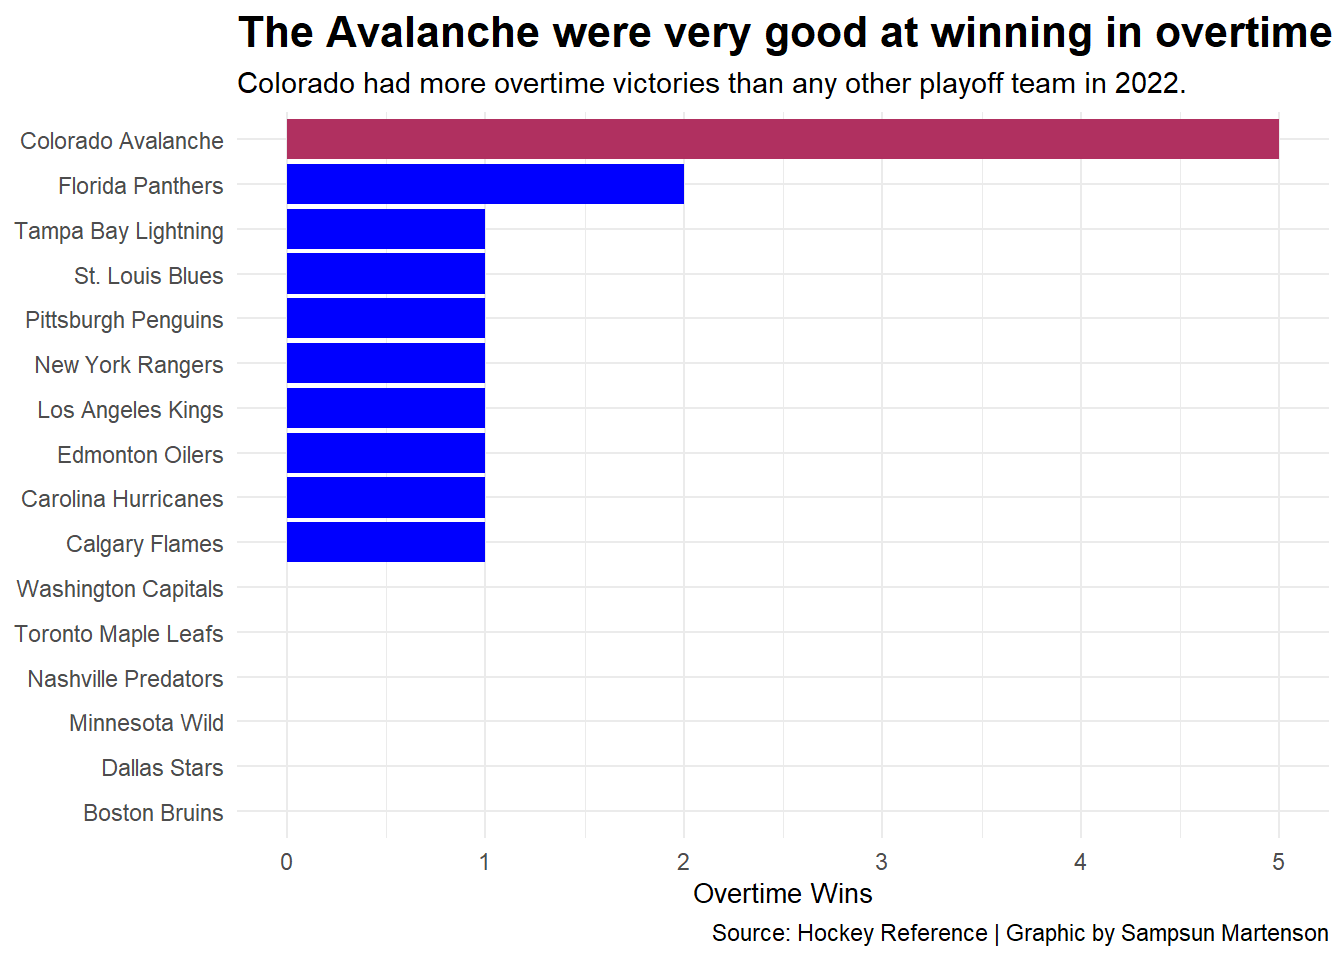
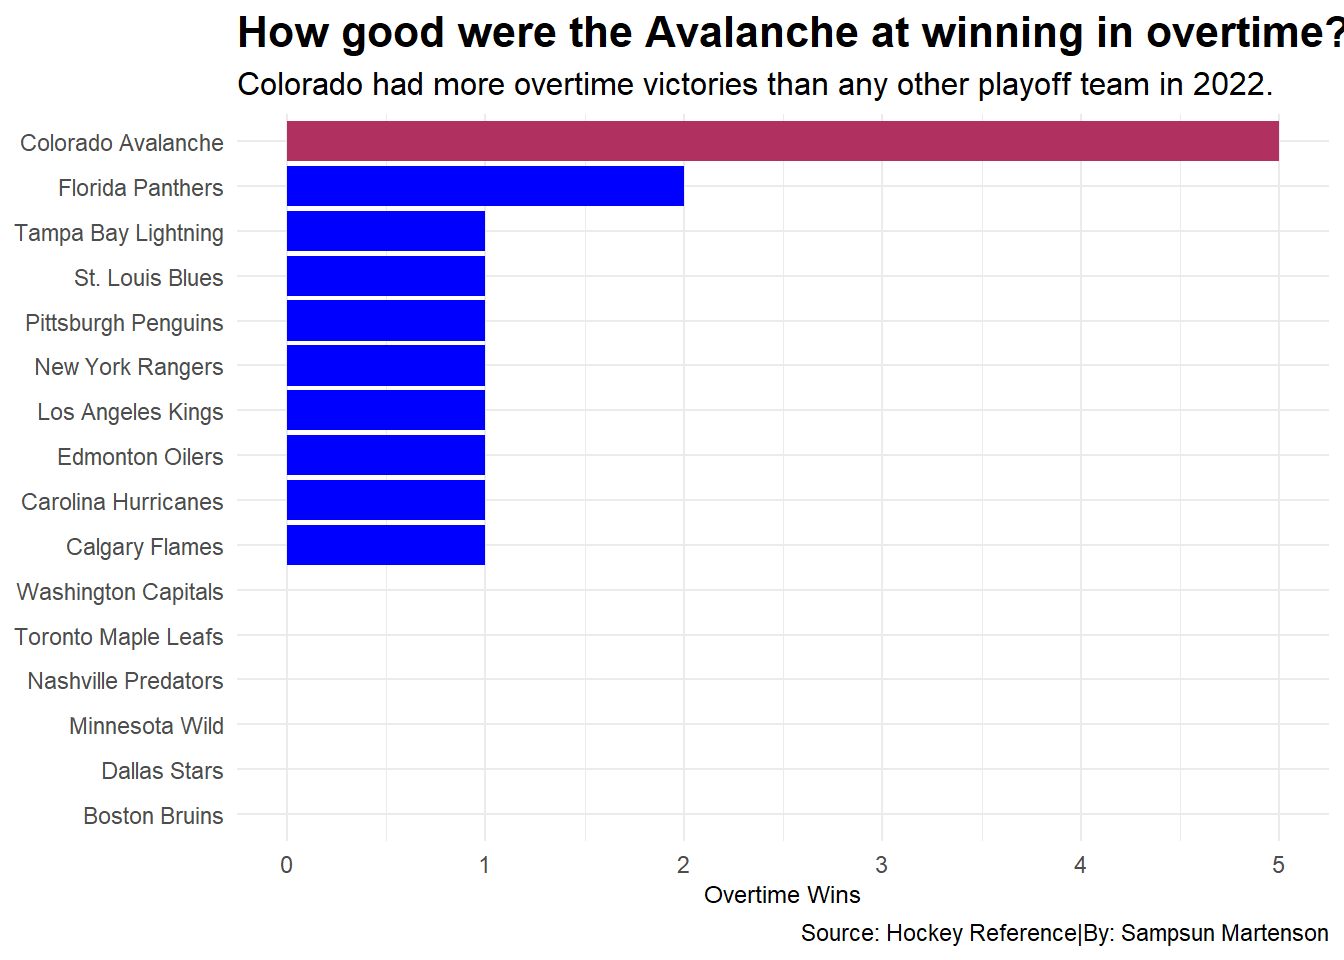
final edits

diff --git a/posts/avalanche-dominance/index.html b/posts/avalanche-dominance/index.html
@@ -244,16 +244,18 @@ code span.wa { color: #60a0b0; font-weight: bold; font-style: italic; } /* Warni
 <span id="cb1-23"><a href="#cb1-23" aria-hidden="true" tabindex="-1"></a>  <span class="fu">theme_minimal</span>() <span class="sc">+</span> </span>
 <span id="cb1-24"><a href="#cb1-24" aria-hidden="true" tabindex="-1"></a>  <span class="fu">coord_flip</span>() <span class="sc">+</span></span>
 <span id="cb1-25"><a href="#cb1-25" aria-hidden="true" tabindex="-1"></a>  <span class="fu">labs</span>(</span>
-<span id="cb1-26"><a href="#cb1-26" aria-hidden="true" tabindex="-1"></a>    <span class="at">x =</span> <span class="st">"Overtime Wins"</span>,</span>
+<span id="cb1-26"><a href="#cb1-26" aria-hidden="true" tabindex="-1"></a>    <span class="at">x =</span> <span class="st">"Team"</span>,</span>
 <span id="cb1-27"><a href="#cb1-27" aria-hidden="true" tabindex="-1"></a>    <span class="at">y =</span> <span class="st">"Overtime Wins"</span>,</span>
-<span id="cb1-28"><a href="#cb1-28" aria-hidden="true" tabindex="-1"></a>    <span class="at">title=</span><span class="st">"The Avalanche were very good at winning in overtime"</span>, </span>
+<span id="cb1-28"><a href="#cb1-28" aria-hidden="true" tabindex="-1"></a>    <span class="at">title=</span><span class="st">"How good were the Avalanche at winning in overtime?"</span>, </span>
 <span id="cb1-29"><a href="#cb1-29" aria-hidden="true" tabindex="-1"></a>    <span class="at">subtitle=</span><span class="st">"Colorado had more overtime victories than any other playoff team in 2022."</span>,</span>
-<span id="cb1-30"><a href="#cb1-30" aria-hidden="true" tabindex="-1"></a>    <span class="at">caption=</span><span class="st">"Source: Hockey Reference | Graphic by Sampsun Martenson"</span>) <span class="sc">+</span> </span>
+<span id="cb1-30"><a href="#cb1-30" aria-hidden="true" tabindex="-1"></a>    <span class="at">caption=</span><span class="st">"Source: Hockey Reference|By: Sampsun Martenson"</span>) <span class="sc">+</span> </span>
 <span id="cb1-31"><a href="#cb1-31" aria-hidden="true" tabindex="-1"></a>  <span class="fu">theme</span>(</span>
-<span id="cb1-32"><a href="#cb1-32" aria-hidden="true" tabindex="-1"></a>    <span class="at">plot.title =</span> <span class="fu">element_text</span>(<span class="at">size =</span> <span class="dv">16</span>, <span class="at">face =</span> <span class="st">"bold"</span>),</span>
-<span id="cb1-33"><a href="#cb1-33" aria-hidden="true" tabindex="-1"></a>    <span class="at">axis.title =</span> <span class="fu">element_text</span>(<span class="at">size =</span> <span class="dv">10</span>),</span>
-<span id="cb1-34"><a href="#cb1-34" aria-hidden="true" tabindex="-1"></a>    <span class="at">axis.title.y =</span> <span class="fu">element_blank</span>()</span>
-<span id="cb1-35"><a href="#cb1-35" aria-hidden="true" tabindex="-1"></a>  )</span></code><button title="Copy to Clipboard" class="code-copy-button"><i class="bi"></i></button></pre></div>
+<span id="cb1-32"><a href="#cb1-32" aria-hidden="true" tabindex="-1"></a>    <span class="at">plot.title =</span> <span class="fu">element_text</span>(<span class="at">size =</span> <span class="dv">16</span>, <span class="at">face=</span> <span class="st">"bold"</span>),</span>
+<span id="cb1-33"><a href="#cb1-33" aria-hidden="true" tabindex="-1"></a>    <span class="at">axis.title =</span> <span class="fu">element_text</span>(<span class="at">size=</span><span class="dv">9</span>),</span>
+<span id="cb1-34"><a href="#cb1-34" aria-hidden="true" tabindex="-1"></a>    <span class="at">plot.subtitle =</span> <span class="fu">element_text</span>(<span class="at">size=</span><span class="dv">12</span>),</span>
+<span id="cb1-35"><a href="#cb1-35" aria-hidden="true" tabindex="-1"></a>    <span class="at">axis.text.x =</span> <span class="fu">element_text</span>(<span class="at">size=</span><span class="dv">9</span>),</span>
+<span id="cb1-36"><a href="#cb1-36" aria-hidden="true" tabindex="-1"></a>    <span class="at">axis.title.y =</span> <span class="fu">element_blank</span>()</span>
+<span id="cb1-37"><a href="#cb1-37" aria-hidden="true" tabindex="-1"></a>  )</span></code><button title="Copy to Clipboard" class="code-copy-button"><i class="bi"></i></button></pre></div>
 </details>
 <div class="cell-output-display">
 <p><img src="index_files/figure-html/unnamed-chunk-1-1.png" class="img-fluid" width="672"></p>
@@ -263,8 +265,9 @@ code span.wa { color: #60a0b0; font-weight: bold; font-style: italic; } /* Warni
 <div class="sourceCode cell-code" id="cb2"><pre class="sourceCode r code-with-copy"><code class="sourceCode r"><span id="cb2-1"><a href="#cb2-1" aria-hidden="true" tabindex="-1"></a><span class="fu">ggsave</span>(<span class="st">"image.png"</span>)</span></code><button title="Copy to Clipboard" class="code-copy-button"><i class="bi"></i></button></pre></div>
 </details>
 </div>
-<p>This stat is a great place to start to show just how shut down and resiliant this Avalanche team was. They went into overtime a total of six times and won all but one of them over the course of their playoff run. This also included two overtime victories in the finals.</p>
-<p>The next stat we can look to is point differential to show just how ridiculous this Avalanche team was when scoring goals compared to other playoff teams.</p>
+<p>This stat is a great place to start to show just how shut down and resilient this Avalanche team was. They went into overtime a total of six times and won all but one of them over the course of their playoff run. This also included two overtime victories in the finals.</p>
+<p>The next stat we can look to is point differential to show just how ridiculous this Avalanche team was when scoring goals compared to other playoff teams. They were able to explode offensively frequently which helped them when their defense was still getting their footing in certain series.</p>
+<p>Overall the Avalanche defense did round into form enough to be the best team out of the final four for goals against but without the tremendous scoring happening in front of them Colorado may not have had enough time to round into form.</p>
 <div class="cell">
 <details>
 <summary>Code</summary>
@@ -288,23 +291,27 @@ code span.wa { color: #60a0b0; font-weight: bold; font-style: italic; } /* Warni
 <span id="cb3-18"><a href="#cb3-18" aria-hidden="true" tabindex="-1"></a>    <span class="fu">aes</span>(<span class="at">x=</span>GoalsFor, <span class="at">y=</span>GoalsAgainst, <span class="at">label=</span>Team)</span>
 <span id="cb3-19"><a href="#cb3-19" aria-hidden="true" tabindex="-1"></a>  )<span class="sc">+</span></span>
 <span id="cb3-20"><a href="#cb3-20" aria-hidden="true" tabindex="-1"></a>  <span class="fu">theme_minimal</span>()<span class="sc">+</span></span>
-<span id="cb3-21"><a href="#cb3-21" aria-hidden="true" tabindex="-1"></a>    <span class="fu">labs</span>(</span>
+<span id="cb3-21"><a href="#cb3-21" aria-hidden="true" tabindex="-1"></a>  <span class="fu">labs</span>(</span>
 <span id="cb3-22"><a href="#cb3-22" aria-hidden="true" tabindex="-1"></a>    <span class="at">x =</span> <span class="st">"Goals For"</span>,</span>
 <span id="cb3-23"><a href="#cb3-23" aria-hidden="true" tabindex="-1"></a>    <span class="at">y =</span> <span class="st">"Goals Against"</span>,</span>
-<span id="cb3-24"><a href="#cb3-24" aria-hidden="true" tabindex="-1"></a>    <span class="at">title=</span><span class="st">"Colorado's Goals for and Goals Against Are an Incredible Ratio."</span>, </span>
+<span id="cb3-24"><a href="#cb3-24" aria-hidden="true" tabindex="-1"></a>    <span class="at">title=</span><span class="st">"Colorado kept with the head pack defensively while exploding offensively."</span>, </span>
 <span id="cb3-25"><a href="#cb3-25" aria-hidden="true" tabindex="-1"></a>    <span class="at">subtitle=</span><span class="st">"The Avalanche Goal Differential is by far the best of all playoff teams."</span>,</span>
-<span id="cb3-26"><a href="#cb3-26" aria-hidden="true" tabindex="-1"></a>    <span class="at">caption=</span><span class="st">"Source: Hockey Reference | Graphic by Sampsun Martenson"</span>) <span class="sc">+</span> </span>
+<span id="cb3-26"><a href="#cb3-26" aria-hidden="true" tabindex="-1"></a>    <span class="at">caption=</span><span class="st">"Source:Hockey Reference|By:Sampsun Martenson"</span>) <span class="sc">+</span> </span>
 <span id="cb3-27"><a href="#cb3-27" aria-hidden="true" tabindex="-1"></a>  <span class="fu">theme</span>(</span>
-<span id="cb3-28"><a href="#cb3-28" aria-hidden="true" tabindex="-1"></a>    <span class="at">plot.title =</span> <span class="fu">element_text</span>(<span class="at">size =</span> <span class="dv">16</span>, <span class="at">face =</span> <span class="st">"bold"</span>),</span>
-<span id="cb3-29"><a href="#cb3-29" aria-hidden="true" tabindex="-1"></a>    <span class="at">axis.title =</span> <span class="fu">element_text</span>(<span class="at">size =</span> <span class="dv">10</span>),</span>
-<span id="cb3-30"><a href="#cb3-30" aria-hidden="true" tabindex="-1"></a>    <span class="at">axis.title.y =</span> <span class="fu">element_blank</span>()</span>
-<span id="cb3-31"><a href="#cb3-31" aria-hidden="true" tabindex="-1"></a>  )</span></code><button title="Copy to Clipboard" class="code-copy-button"><i class="bi"></i></button></pre></div>
+<span id="cb3-28"><a href="#cb3-28" aria-hidden="true" tabindex="-1"></a>    <span class="at">plot.title =</span> <span class="fu">element_text</span>(<span class="at">size =</span> <span class="dv">16</span>, <span class="at">face=</span> <span class="st">"bold"</span>),</span>
+<span id="cb3-29"><a href="#cb3-29" aria-hidden="true" tabindex="-1"></a>    <span class="at">axis.title =</span> <span class="fu">element_text</span>(<span class="at">size=</span><span class="dv">9</span>),</span>
+<span id="cb3-30"><a href="#cb3-30" aria-hidden="true" tabindex="-1"></a>    <span class="at">plot.subtitle =</span> <span class="fu">element_text</span>(<span class="at">size=</span><span class="dv">12</span>),</span>
+<span id="cb3-31"><a href="#cb3-31" aria-hidden="true" tabindex="-1"></a>    <span class="at">axis.text.x =</span> <span class="fu">element_text</span>(<span class="at">size=</span><span class="dv">9</span>),</span>
+<span id="cb3-32"><a href="#cb3-32" aria-hidden="true" tabindex="-1"></a>    <span class="at">axis.title.y =</span> <span class="fu">element_text</span>(<span class="at">size=</span><span class="dv">9</span>)</span>
+<span id="cb3-33"><a href="#cb3-33" aria-hidden="true" tabindex="-1"></a>  )</span></code><button title="Copy to Clipboard" class="code-copy-button"><i class="bi"></i></button></pre></div>
 </details>
 <div class="cell-output-display">
 <p><img src="index_files/figure-html/unnamed-chunk-2-1.png" class="img-fluid" width="672"></p>
 </div>
 </div>
-<p>The final piece of this puzzle comes from how dominant the offense was able to be even when they may have been allowing more goals per game than the average playoff team.</p>
+<p>The final piece of this puzzle comes from how dominant the offense was able to be even when they may have been allowing more goals per game than the other high caliber defensive playoff teams.</p>
+<p>While teams like the Stars were able to lock down completely defensively they shut down offensively. This was what made this Avalanche team so dangerous because they could keep you off the board just long enough for the offense to strike and give them control back.</p>
+<p>This kind of play also lead to the Avalanche goals per game being worse than their overall goals allowed due to getting better defensively as the playoffs went on.</p>
 <div class="cell">
 <details>
 <summary>Code</summary>
@@ -328,18 +335,25 @@ code span.wa { color: #60a0b0; font-weight: bold; font-style: italic; } /* Warni
 <span id="cb4-18"><a href="#cb4-18" aria-hidden="true" tabindex="-1"></a>  <span class="fu">labs</span>( </span>
 <span id="cb4-19"><a href="#cb4-19" aria-hidden="true" tabindex="-1"></a>    <span class="at">x =</span> <span class="st">"Average Goals"</span>,</span>
 <span id="cb4-20"><a href="#cb4-20" aria-hidden="true" tabindex="-1"></a>    <span class="at">y =</span> <span class="st">"Team"</span>,</span>
-<span id="cb4-21"><a href="#cb4-21" aria-hidden="true" tabindex="-1"></a>    <span class="at">title=</span><span class="st">"The Avalanche have a great offense that offsets an average defense"</span>, </span>
+<span id="cb4-21"><a href="#cb4-21" aria-hidden="true" tabindex="-1"></a>    <span class="at">title=</span><span class="st">"The Avalanche averaged enough scoring to carry the team"</span>, </span>
 <span id="cb4-22"><a href="#cb4-22" aria-hidden="true" tabindex="-1"></a>    <span class="at">subtitle =</span> <span class="st">"If &lt;span style = 'color:green;'&gt;AverageGoalsScored&lt;/span&gt; is on the right the team is doing well. If &lt;span style = 'color:red;'&gt;AverageGoalsAllowed&lt;/span&gt; is on the right, not so much."</span>,  </span>
-<span id="cb4-23"><a href="#cb4-23" aria-hidden="true" tabindex="-1"></a>  <span class="at">caption=</span><span class="st">"Source: Hockey Reference | Graphic by Sampsun Martenson"</span>) <span class="sc">+</span></span>
+<span id="cb4-23"><a href="#cb4-23" aria-hidden="true" tabindex="-1"></a>  <span class="at">caption=</span><span class="st">"Source:Hockey Reference|By:Sampsun Martenson"</span>) <span class="sc">+</span></span>
 <span id="cb4-24"><a href="#cb4-24" aria-hidden="true" tabindex="-1"></a>  <span class="fu">theme</span>(</span>
-<span id="cb4-25"><a href="#cb4-25" aria-hidden="true" tabindex="-1"></a>    <span class="at">plot.subtitle =</span> <span class="fu">element_textbox_simple</span>()</span>
-<span id="cb4-26"><a href="#cb4-26" aria-hidden="true" tabindex="-1"></a>  )</span></code><button title="Copy to Clipboard" class="code-copy-button"><i class="bi"></i></button></pre></div>
+<span id="cb4-25"><a href="#cb4-25" aria-hidden="true" tabindex="-1"></a>    <span class="at">plot.title =</span> <span class="fu">element_text</span>(<span class="at">size =</span> <span class="dv">16</span>, <span class="at">face=</span> <span class="st">"bold"</span>),</span>
+<span id="cb4-26"><a href="#cb4-26" aria-hidden="true" tabindex="-1"></a>    <span class="at">axis.title =</span> <span class="fu">element_text</span>(<span class="at">size=</span><span class="dv">9</span>),</span>
+<span id="cb4-27"><a href="#cb4-27" aria-hidden="true" tabindex="-1"></a>    <span class="at">axis.text.x =</span> <span class="fu">element_text</span>(<span class="at">size=</span><span class="dv">9</span>),</span>
+<span id="cb4-28"><a href="#cb4-28" aria-hidden="true" tabindex="-1"></a>    <span class="at">axis.title.y =</span> <span class="fu">element_blank</span>(),</span>
+<span id="cb4-29"><a href="#cb4-29" aria-hidden="true" tabindex="-1"></a>    <span class="at">plot.subtitle =</span> <span class="fu">element_textbox_simple</span>()</span>
+<span id="cb4-30"><a href="#cb4-30" aria-hidden="true" tabindex="-1"></a>  )</span></code><button title="Copy to Clipboard" class="code-copy-button"><i class="bi"></i></button></pre></div>
 </details>
 <div class="cell-output-display">
 <p><img src="index_files/figure-html/unnamed-chunk-3-1.png" class="img-fluid" width="672"></p>
 </div>
 </div>
-<p>All of this comes together to make the 2022 Avalanche a tremendous playoff team.</p>
+<p>As the stats have shown us the Avalanche were able to play a full team game where the defense would normally hold their own while the offense dominated. Even when the defense ended up being towards the top of the pack the offense was the thing that boosted the team to the heights they were able to reach.</p>
+<p>The x-factor of the playoff run was when the games reached overtime however, being able to not only win some overtime games but dominate them for the most part is a key through line of the 2022 Avalanche DNA.</p>
+<p>All of these factors come together to make the 2022 Avalanche a tremendous playoff team. They had everything that you could want from a modern hockey team when making a run at a championship.</p>
+<p>When teams in the future try to emulate this Colorado team and the playoff run they had in 2022 they may have quite the challenge ahead of them.</p>
 
 
 

diff --git a/index.html b/index.html
@@ -171,7 +171,7 @@ ul.task-list li input[type="checkbox"] {
 
 <div class="quarto-listing quarto-listing-container-default" id="listing-listing">
 <div class="list quarto-listing-default">
-<div class="quarto-post image-right" data-index="0" data-categories="hockey,colorado,analysis" data-listing-date-sort="1681621200000" data-listing-file-modified-sort="1681497669482" data-listing-reading-time-sort="3.49">
+<div class="quarto-post image-right" data-index="0" data-categories="hockey,colorado,analysis" data-listing-date-sort="1681621200000" data-listing-file-modified-sort="1681681372258" data-listing-reading-time-sort="5.085">
 <div class="thumbnail">
 <p><a href="./posts/avalanche-dominance/index.html"> <img src="./posts/avalanche-dominance/image.png" class="thumnail-image"> </a></p>
 </div>
